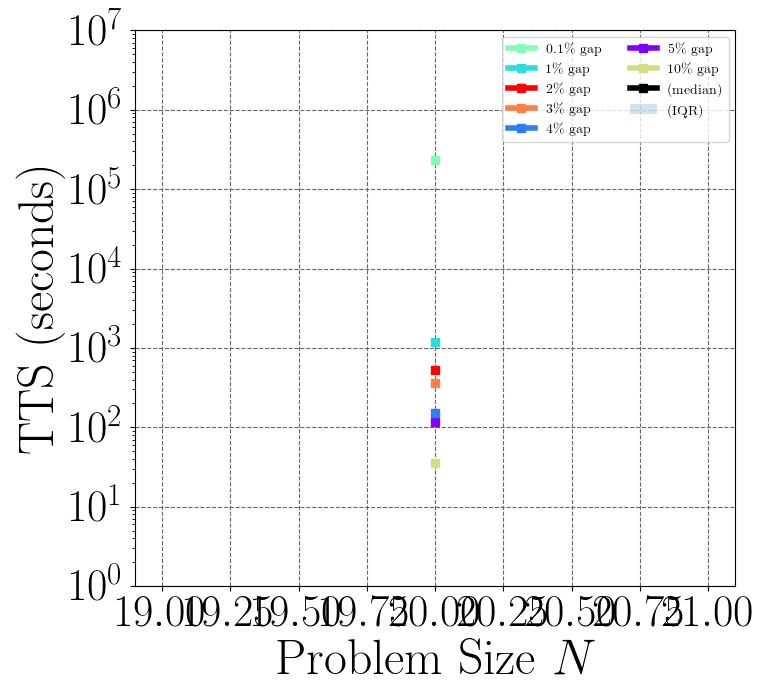
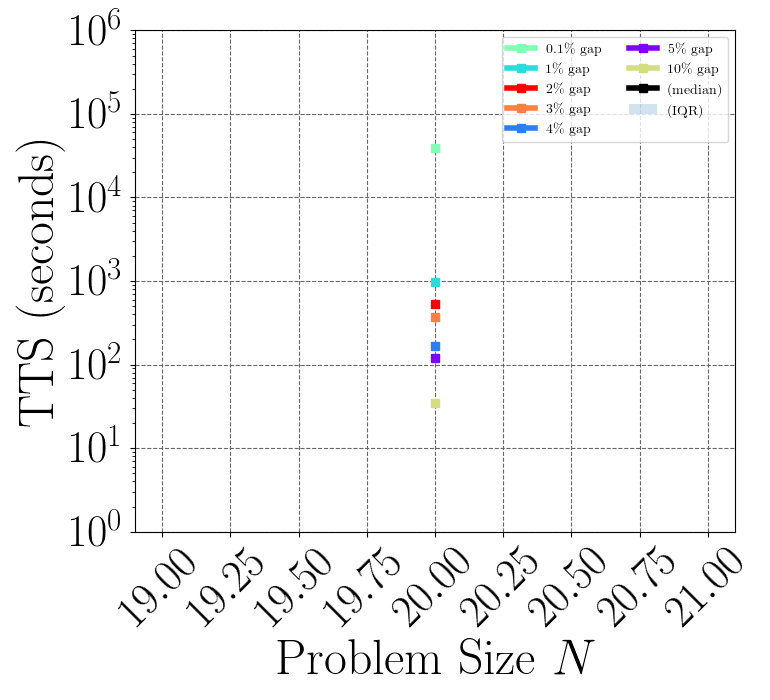
Rotated the x-axis labels

diff --git a/ccvm/ccvmplotlib/ccvmplotlib.py b/ccvm/ccvmplotlib/ccvmplotlib.py
@@ -149,7 +149,7 @@ class ccvmplotlib:
             ncol=2,
         )
 
-        plt.xticks(fontsize=fonts["xticks"])
+        plt.xticks(fontsize=fonts["xticks"], rotation=45)
         plt.yticks(fontsize=fonts["yticks"])
         plt.tight_layout()
 
@@ -251,7 +251,7 @@ class ccvmplotlib:
         plt.xlabel("Problem Size, $N$", fontsize=fonts["xlabel"])
         plt.ylabel("Success Probability", fontsize=fonts["ylabel"])
 
-        plt.xticks(fontsize=fonts["xticks"])
+        plt.xticks(fontsize=fonts["xticks"], rotation=45)
         plt.yticks(fontsize=fonts["yticks"])
         plt.tight_layout()
 
